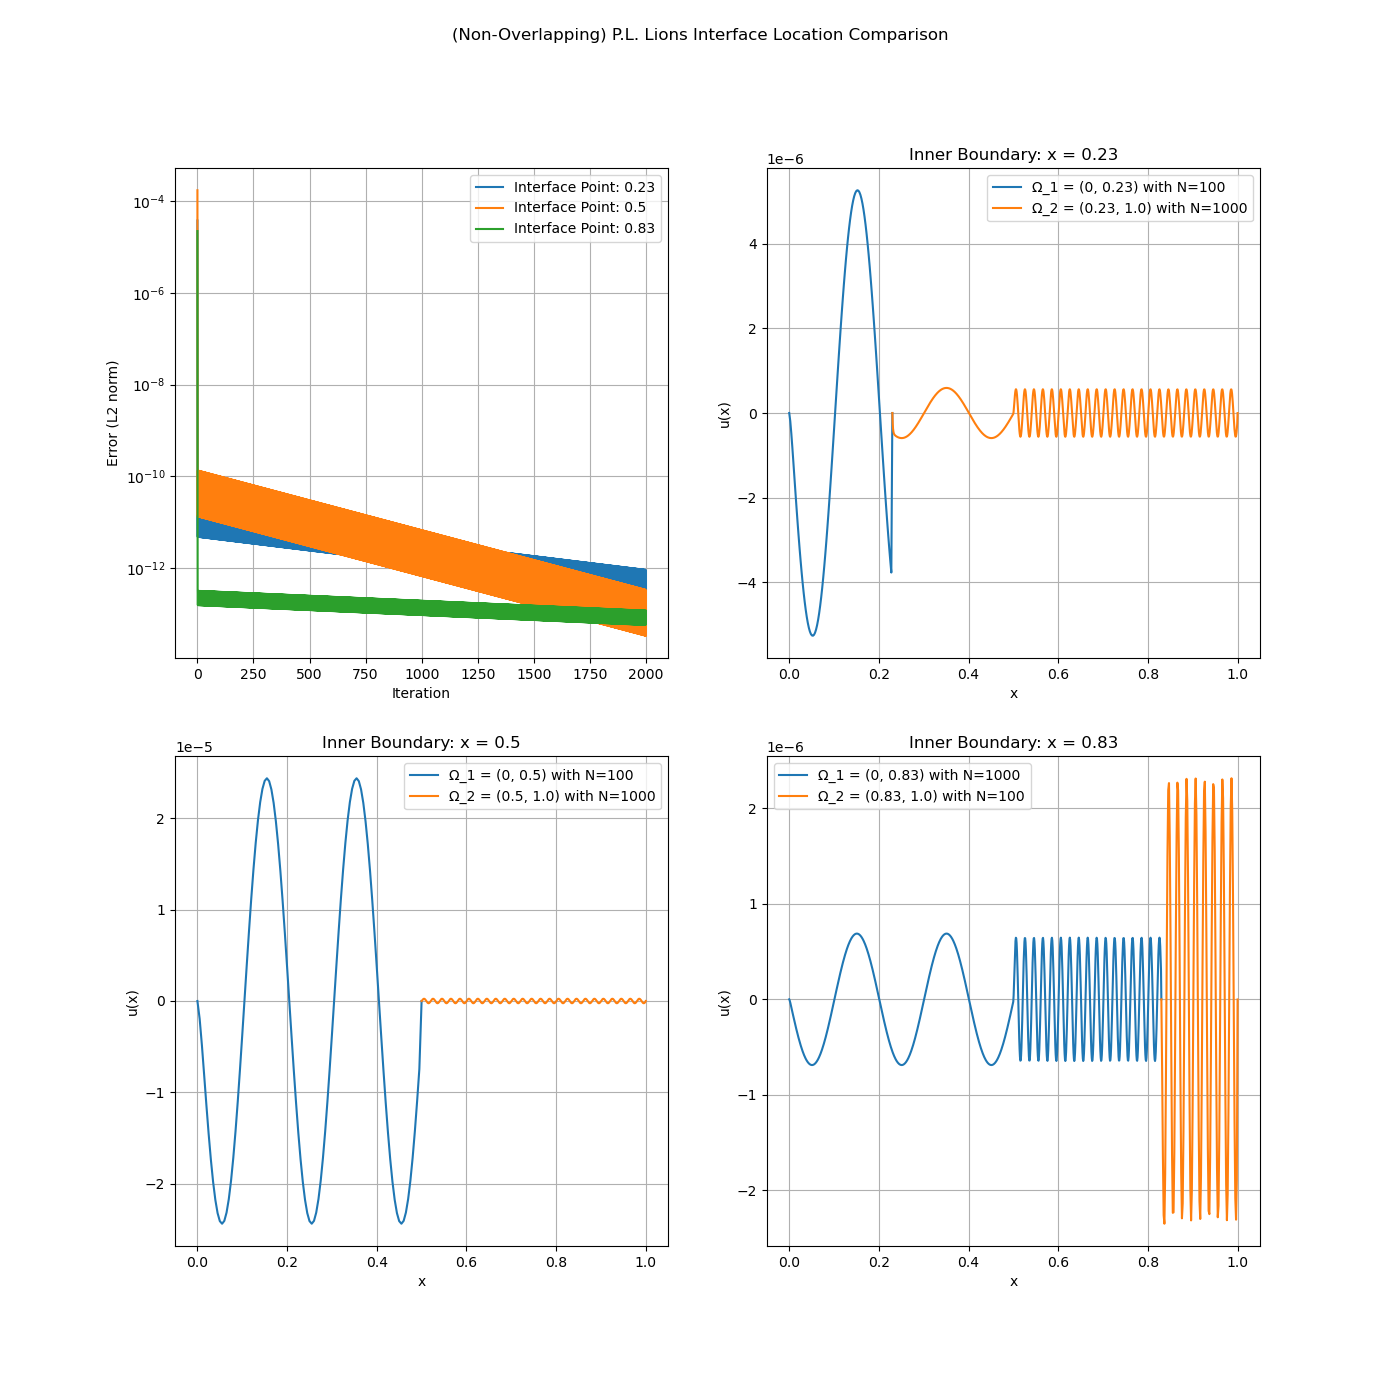
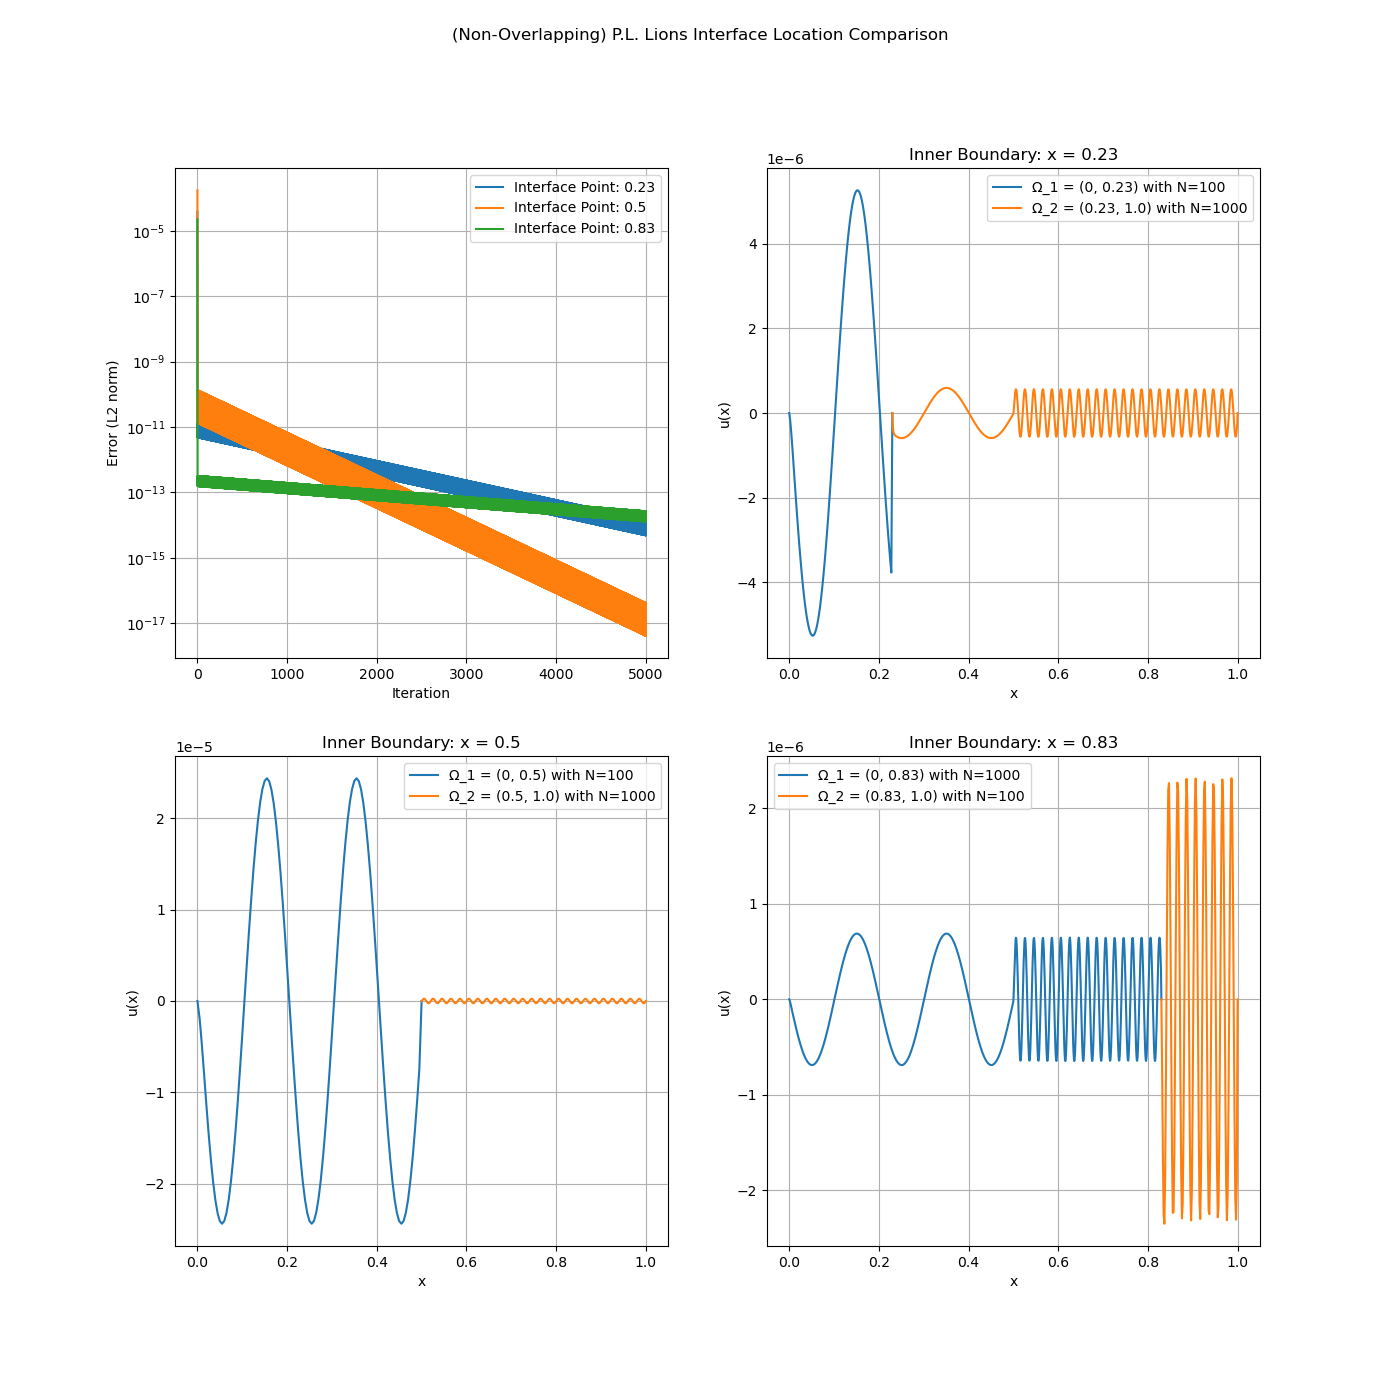
Finished Making Figures for Meeting

Changed region(s): [[0.0921, 0.2764, 0.4607, 0.4914], [0.0921, 0.2457, 0.1229, 0.2764]]

diff --git a/app/schwarz.py b/app/schwarz.py
@@ -1,7 +1,15 @@
 import numpy as np
 import matplotlib.pyplot as plt
 
-def schwarz_domain_decomposition(f, L, N, overlap, overlap_center, max_iter=100, tol=1e-8, filename='test', visual=True):
+def f(x):
+    return np.where(x <= 0.5, np.sin(10*np.pi * x), -1*np.sin(100*np.pi * x))
+
+def u_explicit(x):
+    """explicit computation of solution"""
+    return np.where(x <= 0.5, np.divide(np.sin(10*np.pi * x),10*10*np.pi*np.pi), np.divide(-1*np.sin(100*np.pi * x),100*100*np.pi*np.pi))
+ 
+
+def schwarz_domain_decomposition(f, L, N, overlap, overlap_center, max_iter=4000, tol=1e-15, filename='test', visual=True):
     """
     Runs the Schwarz domain decomposition method with overlapping subdomains.
 
@@ -17,7 +25,7 @@ def schwarz_domain_decomposition(f, L, N, overlap, overlap_center, max_iter=100,
     - visual: bool, true if the visuals should be created
 
     Returns:
-    - errors, x1, u1, x2, u2
+    - errors, x1, x2, u1, u2
     """
 
     # Domain setup
@@ -93,10 +101,10 @@ def schwarz_domain_decomposition(f, L, N, overlap, overlap_center, max_iter=100,
         ax2.grid(True)
 
         plt.tight_layout()
-        plt.savefig(f'output/{filename}.png')
+        plt.savefig(f'output/schwarz/{filename}.png')
         plt.close()
 
-    return errors, x1, u1, x2, u2
+    return errors, x1, x2, u1, u2
 
 
 def different_overlap_locations(f,N,overlap_size,overlap_centers,filenames, visual=False):
@@ -152,15 +160,14 @@ def different_overlap_sizes(f,N,overlap_sizes,overlap_center,filenames,visual=Fa
     plt.close()
 
 if __name__ == "__main__":
-    f=lambda x: np.where(x <= 0.5, np.sin(10 * np.pi * x), -1*np.sin(100 * np.pi * x))
     different_overlap_locations(f,
                                 N = 5000,
-                                overlap_size = 100,
+                                overlap_size = 200,
                                 overlap_centers = [0.3,0.5,0.7],
-                                filenames = ['schwarz_left', 'schwarz_center', 'schwarz_right'],
+                                filenames = ['left', 'center', 'right'],
                                 visual = True)
     different_overlap_sizes(f,
                                 N = 5000,
                                 overlap_sizes = [100,500,1000],
                                 overlap_center = 0.5,
-                                filenames = ['schwarz_small', 'schwarz_medium', 'schwarz_large'])
+                                filenames = ['small', 'medium', 'large'])

diff --git a/app/lions_robin.py b/app/lions_robin.py
@@ -142,7 +142,7 @@ def lions_robin_domain_decomposition(f, L, interface_point, N1, N2, eta=1.0, alp
 
         # Show the combined plot
         plt.tight_layout()
-        plt.savefig(f'output/{filename}.png')
+        plt.savefig(f'output/lions/{filename}.png')
         plt.close()
 
     return x1, x2, u1, u2, errors
@@ -267,10 +267,10 @@ def different_interface_points_and_robin_alphas(f,interface_points,alpha_robins,
 if __name__ == "__main__":
     # Length of the domain
     L = 1.0                
-    # different_interface_points(f,[0.23,0.5,0.83], [100,100,1000], [1000,1000,100],filenames = ['nonoverlap_left', 'nonoverlap_center', 'nonoverlap_right'], visual=True)
+    different_interface_points(f,[0.23,0.5,0.83], [100,100,1000], [1000,1000,100],filenames = ['nonoverlap_left', 'nonoverlap_center', 'nonoverlap_right'], visual=True)
     # different_interface_points(f,[0.23,0.5,0.83], [100,100,1000], [1000,1000,100],filenames = ['nonoverlap_left', 'nonoverlap_center', 'nonoverlap_right'], visual=False)
-    # different_robin_alphas(f,0.83,[0.1,0.5,0.9], 1000, 100, filenames = ['nonoverlap_center_small_alpha', 'nonoverlap_center_medium_alpha', 'nonoverlap_center_large_alpha'], visual=True)
-    different_interface_points_and_robin_alphas(f,[0.3,0.5,0.7,0.9],[0.4,1.0,4.0], [100,100,1000,1000], [1000,1000,100,100], tol=1e-23, filenames = ['one', 'two', 'three', 'four'], visual=True)
+    different_robin_alphas(f,0.83,[0.1,0.5,0.9], 1000, 100, filenames = ['nonoverlap_center_small_alpha', 'nonoverlap_center_medium_alpha', 'nonoverlap_center_large_alpha'], visual=False)
+    different_interface_points_and_robin_alphas(f,[0.3,0.5,0.7,0.9],[0.4,1.0,4.0], [100,100,1000,1000], [1000,1000,100,100], tol=1e-23, filenames = ['nonoverlap_left_large_alpha', 'nonoverlap_center_large_alpha', 'nonoverlap_right_large_alpha', 'nonoverlap_far_right_large_alpha'], visual=True)
 
     # u1, u2, errors = lions_robin_domain_decomposition(g, L, 0.2, 100, 160, alpha_robin=0.4, filename='nonlipschitz')
     # u1, u2, errors = lions_robin_domain_decomposition(f, L, 0.23, N1, N2, alpha_robin=0.6, filename='nonoverlap_left')
